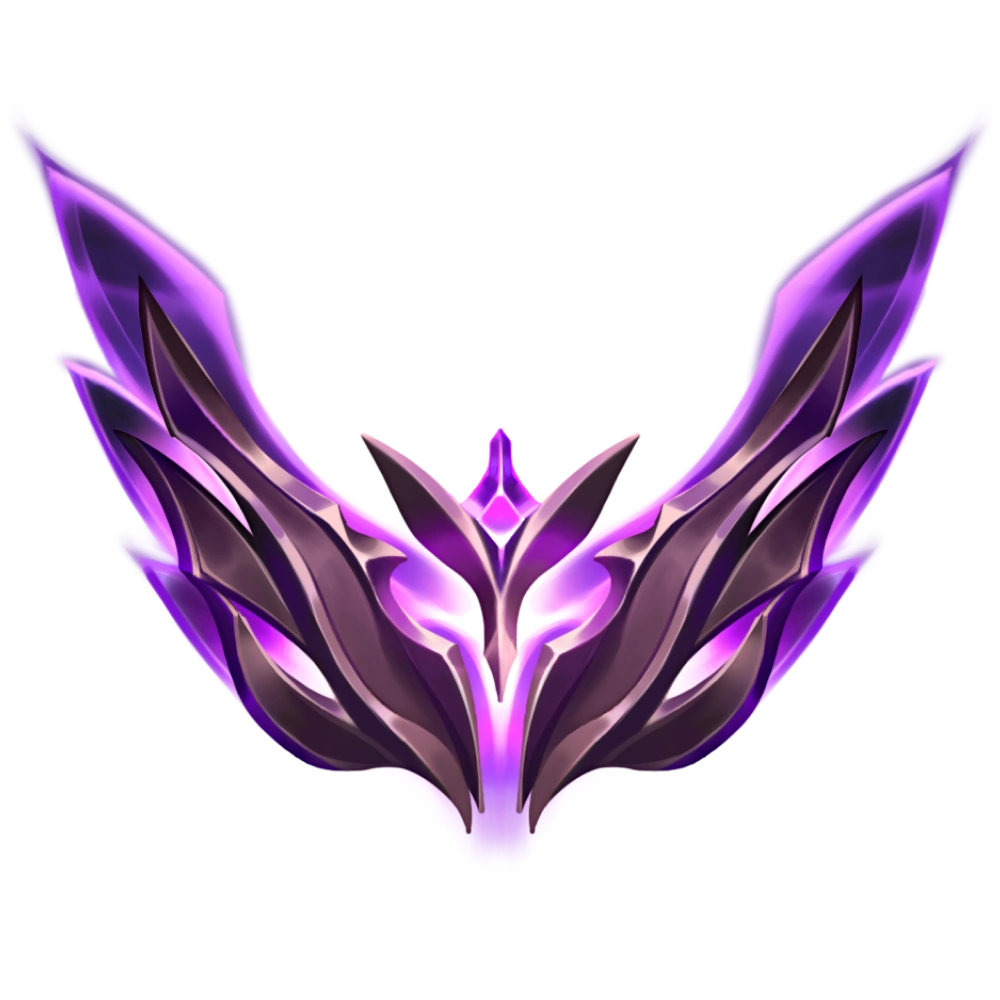
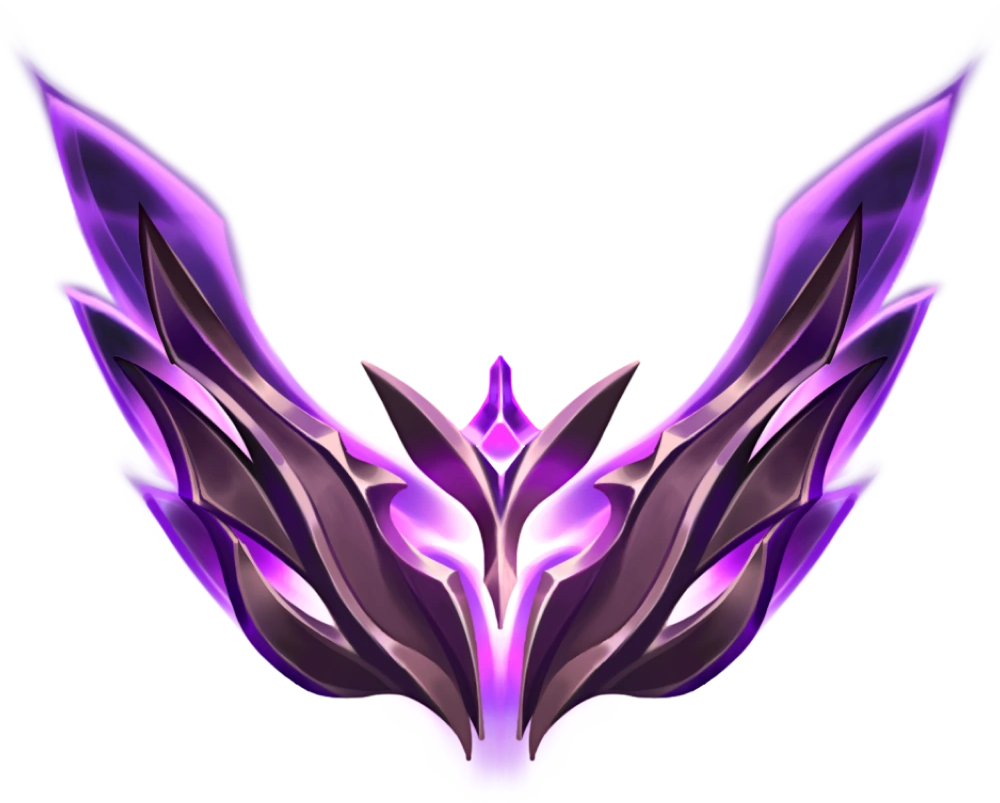
finished image cropper :D

diff --git a/image_cropper.py b/image_cropper.py
@@ -1,6 +1,9 @@
 from PIL import Image
 import os
 
+# Removes transparent rows and columns from the start and end of an image
+
+# Set images folder directory
 images_path = "./static/lolranks"
 
 def crop_image(image, x, y, width, height, image_path):
@@ -19,7 +22,7 @@ def check_transparent_column(image, column):
             return False
     return True
 
-# Iterate directory
+# Iterate over images in directory
 for path in os.listdir(images_path):
     image_path = os.path.join(images_path, path)
     im = Image.open(image_path)
@@ -27,17 +30,36 @@ for path in os.listdir(images_path):
     width, height = im.size
     rows = []
     columns = []
+    front_transparent_collumns = 0
+    back_transparent_columns = 0
+    front_transparent_rows = 0
+    back_transparent_row = 0
     # check for transparent rows and columns
     for row in range(height):
         if check_transparent_row(im, row):
-            rows.append(row)
+            front_transparent_rows += 1
+        else:
+            break
+    cropped_image = im.crop((0, front_transparent_rows, width, height))
     for column in range(width):
         if check_transparent_column(im, column):
-            columns.append(column)
-    # crop image
-    for row in rows:
-        crop_image(im, 0, row, width, 1, image_path)
-    for column in columns:
-        crop_image(im, column, 0, 1, height, image_path)
+            front_transparent_collumns += 1
+        else:
+            break
+    cropped_image = cropped_image.crop((front_transparent_collumns, 0, width, height))
+    for row in reversed(range(height)):
+        if check_transparent_row(im, row):
+            back_transparent_row += 1
+        else:
+            break
+    cropped_image = cropped_image.crop((0, 0, width-back_transparent_columns, height-back_transparent_row))
+    for column in reversed(range(width)):
+        if check_transparent_column(im, column):
+            back_transparent_columns += 1
+        else:
+            break
+    cropped_image = cropped_image.crop((0, 0, width-back_transparent_columns, height-back_transparent_row))
+
+    cropped_image.save(image_path)
     im.close()
 
